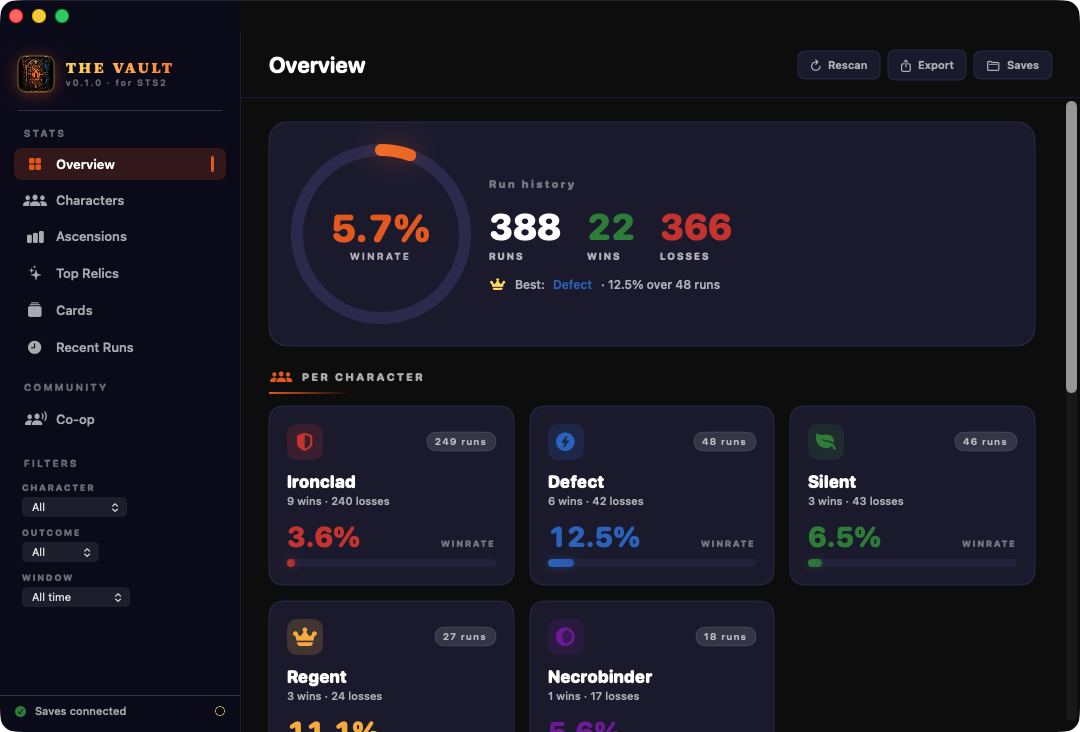
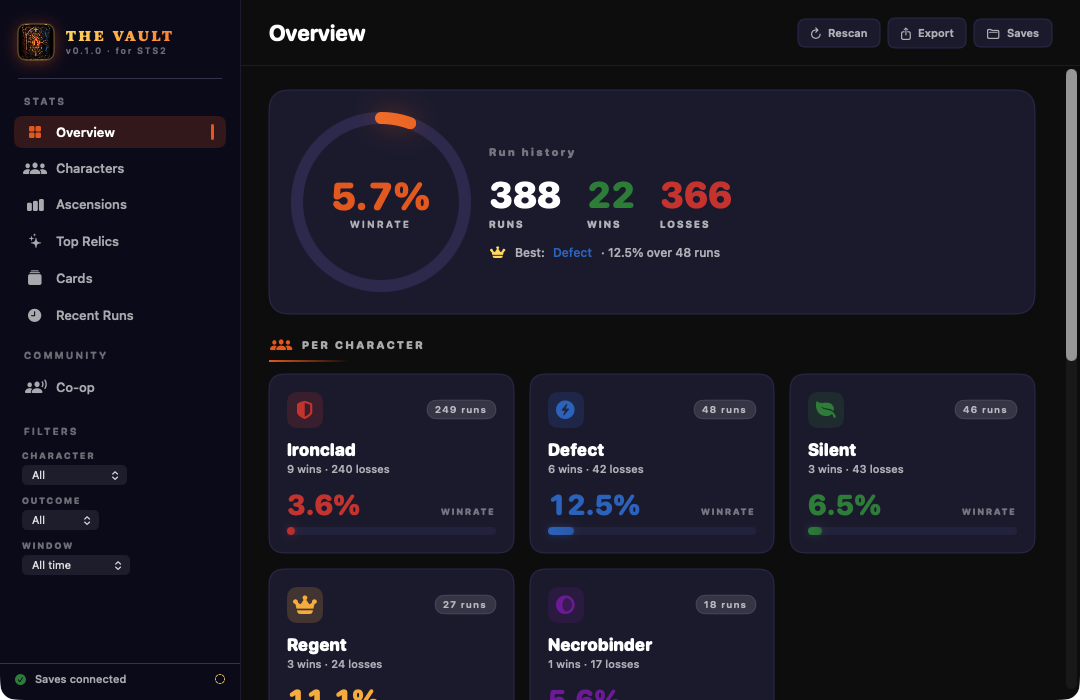
hero: fix double-chrome by cropping screenshot; add hover lift + lightbox
The hero Mac-window product shot was rendering two stacked title bars
because the captured screenshot already contained the macOS traffic-
light dots, and the CSS chrome wrapper added a second set on top of
it. Looked broken. Cropped 32 px off the top of mac-overview.png so
the image starts at the app's own sidebar; the CSS chrome now reads
as a single, intentional frame.

Showcase tiles
- Bumped hover lift from -6/1.012 to -10/1.025 with a subtle gold
  rim glow that fades in. Image inside zooms 1.06 while the caption
  stays put. Cubic-bezier easing for a softer settle. Honors
  prefers-reduced-motion.
- Tiles are now real buttons: tabindex=0, role=button, Enter/Space
  activate the click handler.

Lightbox
- Clicking any showcase tile (or pressing Enter) opens a full-screen
  overlay with a blurred backdrop, the image scaled up to 84vh, and
  the figcaption underneath. Close via × button, Esc, or backdrop
  click. Body scroll is locked while open; focus returns to the tile
  on close so keyboard users don't lose their place.
- Single self-contained block in script.js, ~70 lines, no dependencies.

Cache-bust
- /styles.css → ?v=5, /script.js → ?v=5, mac-overview.png → ?v=4
  so the cropped image and updated CSS/JS land instantly.

Made-with: Cursor

diff --git a/Site/styles.css b/Site/styles.css
@@ -655,6 +655,61 @@ section {
   overflow: hidden;
   background: var(--card);
   position: relative;
+  cursor: zoom-in;
+  transform: translate3d(0, 0, 0);
+  transition:
+    transform 0.35s cubic-bezier(0.2, 0.8, 0.2, 1),
+    border-color 0.25s ease,
+    box-shadow  0.35s cubic-bezier(0.2, 0.8, 0.2, 1);
+  will-change: transform;
+}
+.screenshot::before {
+  /* Subtle gold-to-ember rim glow that reveals on hover */
+  content: "";
+  position: absolute;
+  inset: -1px;
+  border-radius: inherit;
+  pointer-events: none;
+  opacity: 0;
+  transition: opacity 0.35s ease;
+  background: linear-gradient(135deg,
+    rgba(212,175,55,0.45) 0%,
+    rgba(255,107,26,0.25) 50%,
+    rgba(212,175,55,0.45) 100%);
+  -webkit-mask:
+    linear-gradient(#000 0 0) content-box,
+    linear-gradient(#000 0 0);
+  -webkit-mask-composite: xor;
+          mask-composite: exclude;
+  padding: 1px;
+}
+.screenshot:hover {
+  transform: translate3d(0, -10px, 0) scale(1.025);
+  border-color: rgba(212,175,55,0.55);
+  box-shadow:
+    0 40px 90px -22px rgba(0,0,0,0.85),
+    0 14px 34px -8px rgba(255,107,26,0.28);
+}
+.screenshot:hover::before { opacity: 1; }
+.screenshot img {
+  transition: transform 0.6s cubic-bezier(0.2, 0.8, 0.2, 1);
+}
+.screenshot:hover img {
+  transform: scale(1.06);
+}
+/* Caption stays put while image zooms behind it */
+.screenshot figcaption {
+  background: linear-gradient(180deg, transparent, rgba(12,10,20,0.85) 30%);
+  position: relative;
+  z-index: 1;
+  transition: color 0.25s ease;
+}
+.screenshot:hover figcaption {
+  color: var(--text);
+}
+.screenshot figcaption {
+  position: relative;
+  z-index: 1;
 }
 .screenshot.is-live {
   border-color: rgba(212,175,55,0.32);
@@ -672,8 +727,91 @@ section {
   font-size: 10px;
   font-weight: 800;
   letter-spacing: 1.5px;
+  z-index: 2;
   backdrop-filter: blur(4px);
   -webkit-backdrop-filter: blur(4px);
+  pointer-events: none;
+}
+@media (prefers-reduced-motion: reduce) {
+  .screenshot,
+  .screenshot img { transition: none; }
+  .screenshot:hover { transform: none; }
+  .screenshot:hover img { transform: none; }
+}
+
+/* ── Lightbox ───────────────────────────────────────────────────── */
+.lightbox {
+  position: fixed;
+  inset: 0;
+  z-index: 1000;
+  background: rgba(6, 4, 10, 0.90);
+  backdrop-filter: blur(14px);
+  -webkit-backdrop-filter: blur(14px);
+  display: flex;
+  align-items: center;
+  justify-content: center;
+  padding: 32px;
+  opacity: 0;
+  visibility: hidden;
+  transition: opacity 0.25s ease, visibility 0s linear 0.25s;
+  cursor: zoom-out;
+}
+.lightbox.is-open {
+  opacity: 1;
+  visibility: visible;
+  transition: opacity 0.25s ease, visibility 0s linear 0s;
+}
+.lightbox-figure {
+  position: relative;
+  max-width: min(1200px, 96vw);
+  max-height: 92vh;
+  margin: 0;
+  display: flex;
+  flex-direction: column;
+  align-items: center;
+  gap: 14px;
+  transform: scale(0.96);
+  transition: transform 0.28s cubic-bezier(0.2, 0.8, 0.2, 1);
+}
+.lightbox.is-open .lightbox-figure { transform: scale(1); }
+.lightbox-figure img {
+  max-width: 100%;
+  max-height: 84vh;
+  width: auto;
+  height: auto;
+  border-radius: 14px;
+  border: 1px solid rgba(212,175,55,0.30);
+  box-shadow: 0 40px 100px -20px rgba(0,0,0,0.85);
+  background: var(--card);
+}
+.lightbox-figure figcaption {
+  font-size: 12px;
+  color: var(--text-2);
+  letter-spacing: 0.2px;
+  text-align: center;
+  max-width: 80ch;
+}
+.lightbox-close {
+  position: absolute;
+  top: 18px;
+  right: 22px;
+  background: rgba(20,17,30,0.85);
+  color: var(--text);
+  border: 1px solid rgba(212,175,55,0.30);
+  width: 38px;
+  height: 38px;
+  border-radius: 50%;
+  cursor: pointer;
+  font-size: 18px;
+  line-height: 1;
+  display: flex;
+  align-items: center;
+  justify-content: center;
+  transition: background 0.18s, transform 0.18s;
+}
+.lightbox-close:hover {
+  background: rgba(255,107,26,0.18);
+  transform: scale(1.08);
 }
 .screenshot img {
   display: block;

diff --git a/Site/script.js b/Site/script.js
@@ -2,6 +2,7 @@
  *   1. Sticky-nav border on scroll
  *   2. Live "X players online" count from the matchmaking server
  *   3. Hero + install download buttons resolved to the latest GitHub release
+ *   4. Click-to-zoom lightbox on showcase screenshots
  */
 
 const SERVER_URL = "https://vault-coop.coreycrooks.workers.dev";
@@ -14,6 +15,88 @@ if (nav) {
   document.addEventListener("scroll", onScroll, { passive: true });
   onScroll();
 }
+
+// ─── Lightbox for showcase screenshots ──────────────────────────────────────
+//
+// Click any .screenshot tile → full-screen view of the image with the
+// figcaption underneath. Esc / click-outside / × button all close it.
+// Restores body scroll lock and previously-focused element on close so
+// keyboard users land back where they were.
+(() => {
+  const tiles = document.querySelectorAll("#showcase .screenshot");
+  if (tiles.length === 0) return;
+
+  const lb = document.createElement("div");
+  lb.className = "lightbox";
+  lb.setAttribute("role", "dialog");
+  lb.setAttribute("aria-modal", "true");
+  lb.setAttribute("aria-hidden", "true");
+  lb.innerHTML = `
+    <button class="lightbox-close" type="button" aria-label="Close">&times;</button>
+    <figure class="lightbox-figure">
+      <img alt="" />
+      <figcaption></figcaption>
+    </figure>
+  `;
+  document.body.appendChild(lb);
+
+  const lbImg     = lb.querySelector("img");
+  const lbCap     = lb.querySelector("figcaption");
+  const lbClose   = lb.querySelector(".lightbox-close");
+  const lbFigure  = lb.querySelector(".lightbox-figure");
+
+  let lastFocus = null;
+
+  function open(srcImg, caption) {
+    lastFocus = document.activeElement;
+    lbImg.src = srcImg.currentSrc || srcImg.src;
+    lbImg.alt = srcImg.alt || "";
+    lbCap.innerHTML = caption || "";
+    lb.classList.add("is-open");
+    lb.setAttribute("aria-hidden", "false");
+    document.documentElement.style.overflow = "hidden";
+    requestAnimationFrame(() => lbClose.focus());
+  }
+
+  function close() {
+    lb.classList.remove("is-open");
+    lb.setAttribute("aria-hidden", "true");
+    document.documentElement.style.overflow = "";
+    lbImg.src = "";
+    if (lastFocus && lastFocus.focus) lastFocus.focus();
+  }
+
+  tiles.forEach((tile) => {
+    tile.addEventListener("click", (e) => {
+      // Don't hijack clicks on real anchor links inside captions.
+      if (e.target.closest("a")) return;
+      const img = tile.querySelector("img");
+      const cap = tile.querySelector("figcaption");
+      if (!img) return;
+      open(img, cap ? cap.innerHTML : "");
+    });
+    tile.setAttribute("tabindex", "0");
+    tile.setAttribute("role", "button");
+    tile.addEventListener("keydown", (e) => {
+      if (e.key === "Enter" || e.key === " ") {
+        e.preventDefault();
+        const img = tile.querySelector("img");
+        const cap = tile.querySelector("figcaption");
+        if (img) open(img, cap ? cap.innerHTML : "");
+      }
+    });
+  });
+
+  // Close on backdrop click (but not when clicking the figure itself)
+  lb.addEventListener("click", (e) => {
+    if (e.target === lb) close();
+  });
+  lbClose.addEventListener("click", close);
+  lbFigure.addEventListener("click", (e) => e.stopPropagation());
+  document.addEventListener("keydown", (e) => {
+    if (e.key === "Escape" && lb.classList.contains("is-open")) close();
+  });
+})();
 
 // ─── Live presence count ────────────────────────────────────────────────────
 const presenceText      = document.getElementById("presence-text");

diff --git a/Site/index.html b/Site/index.html
@@ -20,7 +20,7 @@
   <link rel="preconnect" href="https://fonts.googleapis.com" />
   <link rel="preconnect" href="https://fonts.gstatic.com" crossorigin />
   <link href="https://fonts.googleapis.com/css2?family=Inter:wght@400;500;600;700;800&family=Playfair+Display:wght@700;900&display=swap" rel="stylesheet" />
-  <link rel="stylesheet" href="/styles.css?v=4" />
+  <link rel="stylesheet" href="/styles.css?v=5" />
 </head>
 <body>
   <!-- Background ornament -->
@@ -83,7 +83,7 @@
             <span class="hero-window-title">The Vault</span>
           </div>
           <img
-            src="/assets/screenshots/mac-overview.png?v=2"
+            src="/assets/screenshots/mac-overview.png?v=4"
             alt="The Vault running on macOS — Overview tab with real run history, winrate, and per-character stats"
             class="hero-window-shot"
             loading="eager"
@@ -188,7 +188,7 @@
     </div>
     <div class="showcase-rail">
       <figure class="screenshot is-live">
-        <img src="/assets/screenshots/mac-overview.png?v=3" alt="The Vault Overview tab — 5.7% winrate over 388 runs, per-character breakdown for Ironclad, Defect, Silent, Regent, Necrobinder" loading="lazy" />
+        <img src="/assets/screenshots/mac-overview.png?v=4" alt="The Vault Overview tab — 5.7% winrate over 388 runs, per-character breakdown for Ironclad, Defect, Silent, Regent, Necrobinder" loading="lazy" />
         <figcaption>macOS · Overview · <strong>real capture from a 388-run save</strong></figcaption>
       </figure>
       <figure class="screenshot is-live">
@@ -462,6 +462,6 @@
     </div>
   </footer>
 
-  <script src="/script.js?v=4"></script>
+  <script src="/script.js?v=5"></script>
 </body>
 </html>
